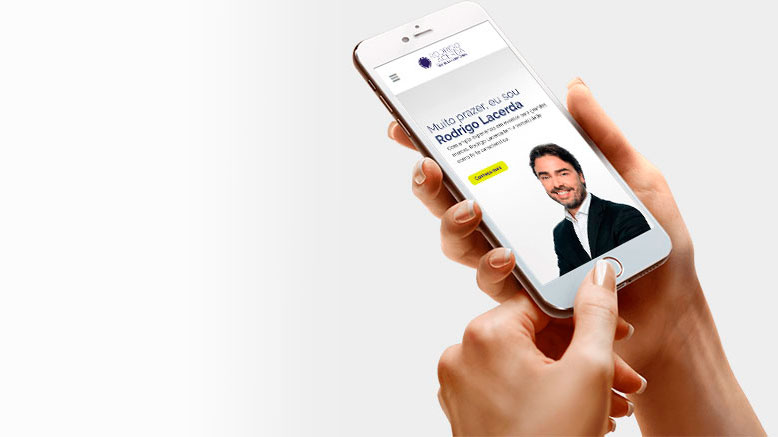
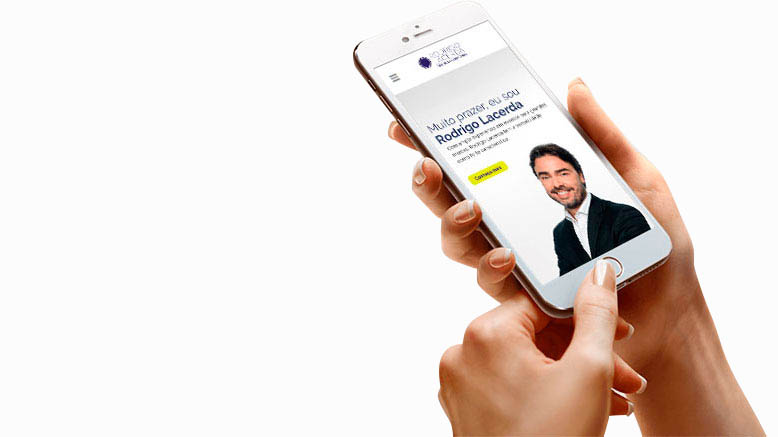
Aprimorando o site e a responsividade

diff --git a/src/components/Header/index.tsx b/src/components/Header/index.tsx
@@ -1,6 +1,5 @@
 import Styles from './Header.module.scss';
 import { ReactComponent as Logo } from 'assets/simbol.svg';
-import { MdKeyboardDoubleArrowDown } from 'react-icons/md';
 import { Link, NavLink } from 'react-router-dom';
 
 
@@ -16,8 +15,8 @@ export default function Header () {
     }];
 
     const rotaPortfolio = [{
-        label: 'Portfolio',
-        to: '/portfolio'
+        label: 'Projecs',
+        to: '/'
     }];
 
     const rotaSobre = [{
@@ -29,21 +28,6 @@ export default function Header () {
         label: 'Contacts',
         to: '/contatos',
     }];
-
-    const rotasNav = [{
-        label: 'Home',
-        to: '/'
-    },{
-        label: 'Portfolio',
-        to: '/portfolio'
-    },{
-        label: 'About',
-        to: '/sobre'
-    },{
-        label: 'Contacts',
-        to: '/contatos'
-    }]
-
 
     return (
         <header className={Styles.header}>
@@ -103,28 +87,6 @@ export default function Header () {
                     </div>
                 ))}
             </div>
-            <nav className={Styles.header__navbar} id='nav'>
-                <ul className={Styles.header__navbar__list}>
-                    <div className={Styles.menu__container}>
-                        <MdKeyboardDoubleArrowDown size={18} color="rgb(32,50,62)" className={Styles.menu__container__icon} />
-                        <h2 className={Styles.menu__container__title}>
-                            Menu
-                        </h2>
-                    </div>
-                    {rotasNav.map((rota, index) =>(
-                        <li className={Styles.header__navbar__list__item} key={index}>
-                            <NavLink
-                                className={({ isActive, isPending }) =>
-                                    isPending ? "pending" : isActive ? "active" : ""
-                                }
-                                to={rota.to}
-                            >
-                                {rota.label}
-                            </NavLink>
-                        </li>
-                    ))}
-                </ul>
-            </nav>
         </header>
     );
 }

diff --git a/src/Pages/Home/Home.module.scss b/src/Pages/Home/Home.module.scss
@@ -15,14 +15,13 @@
         margin: 2em 0 0;
     }
     &__img {
-        margin-bottom: 1.5em;
         width: 100%;
-        grid-column: 1 / span 8;
-        grid-row: 2;
-        @media (min-width: $mobile) {
-            grid-column: 6 / span 6;
+        grid-column: 5 / span 7;
+        grid-row: 1;
+        @media (max-width: $desktop_xsm) {
+            grid-column: 1 / span 8;
             grid-row: 1;
-            margin-bottom: 0;
+            margin-bottom: 2em;
         }
         
     }
@@ -30,9 +29,12 @@
 .container {
     grid-column: 2 / span 10;
     grid-row: 1;
-    margin-bottom: 8em;
+    margin-bottom: 12em;
+    height: auto;
     @media (max-width: $desktop_xsm) {
         grid-column: 1 / span 8;
+        margin-bottom: 3em;
+        grid-row: 2;
     }
     &__name {
         font-size: 1em;
@@ -80,7 +82,7 @@
             margin-left: .5em;
             border-bottom: 1px solid rgba(0,0,0,0);
             @media (max-width: $desktop_xsm) {
-                margin-bottom: 1.5em;
+                margin-bottom: 0;
             }
             &:hover {
                 border-bottom: 1px solid $dark;

diff --git a/src/components/Header/Header.module.scss b/src/components/Header/Header.module.scss
@@ -102,52 +102,6 @@
 			display: flex;
 		}
 	}
-	&__icon {
-		margin-left: 3px;
-	}
-	&__navbar {
-		grid-column: 1 / span 1;
-		grid-row: 2;
-		margin-top: 4rem;
-		display: none;
-		@media (max-width: $desktop_xsm) {
-		}
-		&__list {
-			display: block;
-			&__item {
-				margin: 1em 0;
-				list-style: none;
-				&__link {
-					display: inline-block;
-    				position: relative;
-					transition: all .4s;
-					font-weight: 400;
-					&:hover {
-						transform: scale(1.1);
-					}
-					&:hover::before {
-						right: 0;
-					}
-					&:before {
-						content: "";
-   						position: absolute;
-						z-index: -1;
-						left: 0;
-						right: 100%;
-						bottom: -2px;
-						height: 2px;
-						background: $dark;
-						-webkit-transition-property: right;
-						transition-property: right;
-						-webkit-transition-duration: .3s;
-						transition-duration: .3s;
-						-webkit-transition-timing-function: ease-out;
-						transition-timing-function: ease-out;
-					}
-				}
-			}
-		}
-	}
 }
 .menu__container {
 	display: flex;
@@ -160,4 +114,3 @@
 		font-size: 1.5em;
 	}
 }
-

diff --git a/src/Pages/Sobre/Sobre.module.scss b/src/Pages/Sobre/Sobre.module.scss
@@ -48,6 +48,9 @@
             margin: 4em 0 6em;
             padding: 0 0 8em;
             border-bottom: 1px solid $light-grey;
+            @media (max-width: $desktop_xsm) {
+                padding: 0 0 5em;
+            }
             &__titleDesign {
                 color: $dark-grey;
                 font-size: .875rem;
@@ -56,6 +59,9 @@
                 padding-top: 5px;
                 padding-bottom: 5px;
                 grid-column: 2 / span 3;
+                @media (max-width: $desktop_xsm) {
+                    grid-column: 1 / span 3;
+                }
             }
             &__titleTools {
                 color: $dark-grey;
@@ -66,6 +72,9 @@
                 padding-bottom: 5px;
                 grid-column: 7 / span 3;
                 grid-row: 1;
+                @media (max-width: $desktop_xsm) {
+                    grid-column: 6 / span 3;
+                }
             }
             &__namesDesign {
                 color: $dark;

diff --git a/src/Pages/Home/Cta/Cta.module.scss b/src/Pages/Home/Cta/Cta.module.scss
@@ -7,22 +7,24 @@
     column-gap: 1em;
     grid-column: 2/span 10;
     grid-row: 3;
-    margin: 3em 0 2em;
+    margin: 4em 0 2em;
     @media (max-width: $desktop_xsm) {
         grid-template-columns: repeat(8, 1fr);
         grid-column: 1 /span 8;
         column-gap: .5em;
-        margin: 4em 0 2em;
+        margin: 2em 0 2em;
     }
     &__imgContainer {
-        grid-column: 1 / span 3;
+        grid-column: 1 / span 4;
+        @media (max-width: $desktop_xsm) {
+            grid-column: 1 / span 8;
+        }
         &__img {
             display: block;
-            border-radius: 280px;
         }
     }
     &__article {
-        grid-column: 5/ span 5;
+        grid-column: 6/ span 5;
         display: flex;
         flex-direction: column;
         align-self: center;

diff --git a/src/Pages/Home/CallToWork/CalToWork.module.scss b/src/Pages/Home/CallToWork/CalToWork.module.scss
@@ -5,8 +5,11 @@
 .callToWork {
     grid-column: 2 /span 10;
     grid-row: 5;
-    margin: 4em 0 2em;
+    margin: 3em 0;
     text-align: center;
+    @media (max-width: $desktop_xsm) {
+        grid-column: 1/ span 8;
+    }
     &__title {
         color: $dark-grey;
         font-weight: 500;
@@ -18,9 +21,11 @@
         color: $dark;
         font-weight: 700;
         font-size: 3em;
-        margin-bottom: 3em;
         transition: all .4s;
         position: relative;
+        @media (max-width: $desktop_xsm) {
+            font-size: 2em;
+        }
         &:hover::before {
             right: 0;
         }

diff --git a/src/Pages/Home/Recentes/Recentes.module.scss b/src/Pages/Home/Recentes/Recentes.module.scss
@@ -21,6 +21,9 @@
         font-weight: bold;
         letter-spacing: -1px;
         grid-row: 2;
+        @media (max-width: $desktop_xsm) {
+            grid-column: 1/ span 4;
+        }
     }
     &__subTitle {
         grid-column: 1/span 2;
@@ -30,5 +33,8 @@
         letter-spacing: 2px;
         margin-bottom: 1em;
         grid-row: 1;
+        @media (max-width: $desktop_xsm) {
+            grid-column: 1/ span 4;
+        }
     }
 }

diff --git a/src/Pages/Contact/index.tsx b/src/Pages/Contact/index.tsx
@@ -1,6 +1,5 @@
-import Styles from './Contatct.module.scss';
+import Styles from './Contact.module.scss';
 import { useForm } from 'react-hook-form';
-import { MdOutlinePlace } from 'react-icons/md';
 
 export default function Contact () {
     const { register, handleSubmit, formState: {errors} } = useForm();

diff --git a/src/Pages/Contact/Contact.module.scss b/src/Pages/Contact/Contact.module.scss
@@ -11,6 +11,10 @@
     margin: 2em auto 3em;
     &__side {
         grid-column: 1 / span 4;
+        @media (max-width: $desktop_xsm) {
+            grid-column: 1 / span 6;
+            margin-bottom: 2em;
+        }
         &__title {
             color: $dark;
             font-weight: 700;

diff --git a/src/Pages/Home/index.tsx b/src/Pages/Home/index.tsx
@@ -1,5 +1,5 @@
 import Styles from './Home.module.scss';
-import ImageTopo from 'assets/imagem-principal-cover.jpg';
+import ImageTopo from 'assets/imagem-principal.jpg';
 import Recentes from './Recentes';
 import Botao from 'components/Button';
 import Cta from './Cta';

diff --git a/src/components/Button/Button.module.scss b/src/components/Button/Button.module.scss
@@ -9,8 +9,9 @@
     font-size: 1.2em;
     margin-right: .5em;
     @media (max-width: $desktop_xsm) {
-        padding: 0.5em 2em;
-        margin-bottom: 1.5em;
+        padding: 0;
+        margin-bottom: 0;
+        
     }
 }
 .botao:hover {

diff --git a/src/Pages/Home/Cta/index.tsx b/src/Pages/Home/Cta/index.tsx
@@ -1,5 +1,5 @@
 import Styles from './Cta.module.scss';
-import ImageCta from 'assets/imagem_posts_cover.jpg';
+import ImageCta from 'assets/teste3.jpg';
 
 export default function Cta () {
     return (
